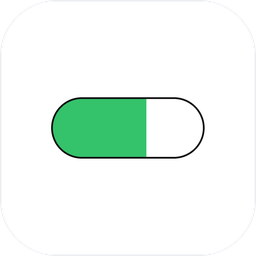
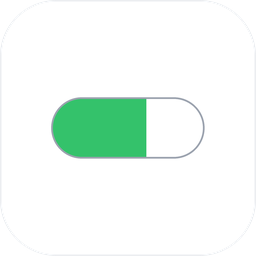
图标描边改浅灰 #9CA3AF
512 上明显更轻，轮廓与白底仍分得开；128 缩略图上这条线几乎消失，胶囊右半段
基本融进白底——白底 + 白胶囊 + 细线三者叠加时，小尺寸的对比就是不够。

diff --git a/tools/make_icon.py b/tools/make_icon.py
@@ -23,7 +23,7 @@ W = 512 * K
 BG = (255, 255, 255, 255)     # 白底
 EDGE = (236, 238, 241, 255)   # 白底在白页面里会看不出边界，靠这道极淡描边留形
 CAP = (255, 255, 255, 255)    # 胶囊自身也是白，靠黑色描边和白底分开
-INK = (17, 17, 17, 255)       # 胶囊描边：纯黑太硬，用近黑
+CAP_LINE = (156, 163, 175, 255)  # 胶囊描边：浅灰，比黑柔和，代价是细线时对比更弱
 FILL = (52, 194, 107, 255)    # 亮绿，呼应胶囊态里那个百分比
 RADIUS = int(W * 0.22)        # 圆角方
 STROKE = max(1, int(W * 0.006))
@@ -65,7 +65,7 @@ def build():
     # 描边最后画：先画会被绿色盖住一半，露出的边缘粗细就不匀了
     ImageDraw.Draw(img).rounded_rectangle(
         [x0, y0, x0 + cw - 1, y0 + ch - 1], radius=r,
-        outline=INK, width=CAP_STROKE)
+        outline=CAP_LINE, width=CAP_STROKE)
 
     return img
 
